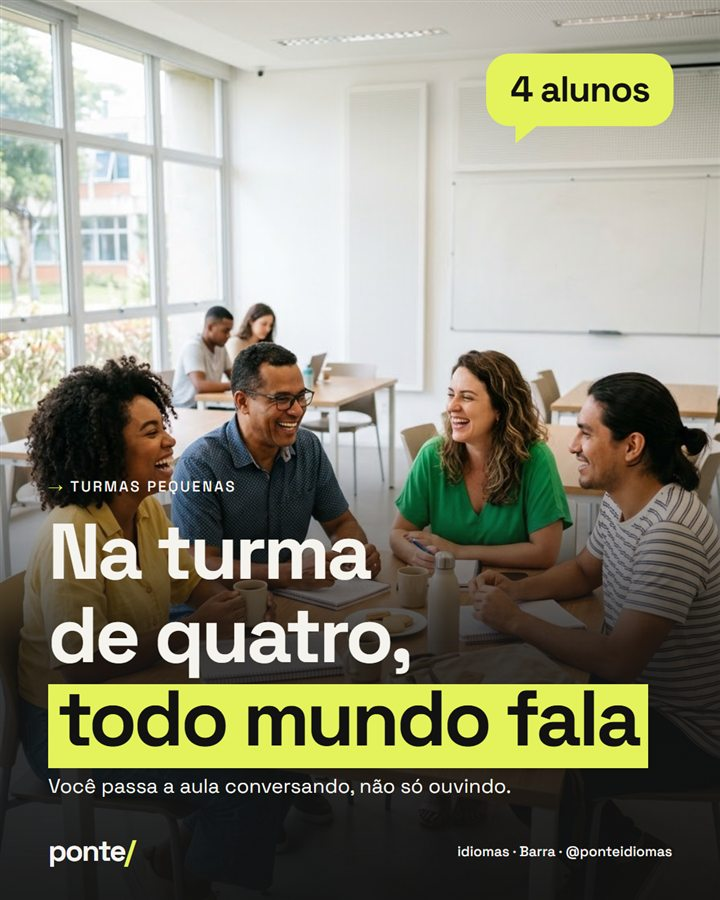
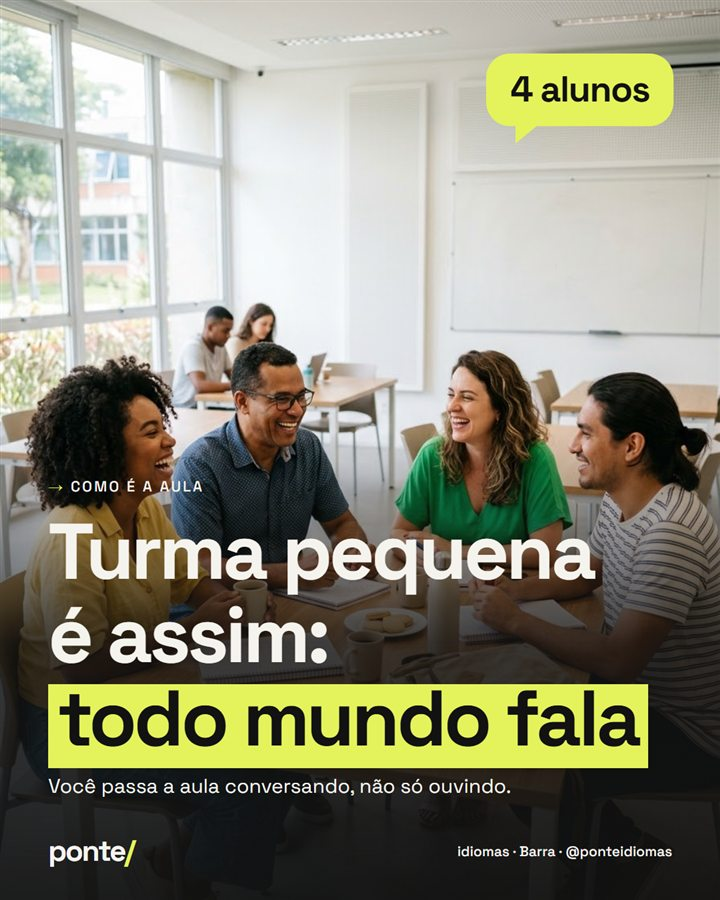
Ponte: troca título do post 01 para evitar duplo sentido

Changed region(s): [[0.0611, 0.5289, 0.825, 0.7778]]

diff --git a/index.html b/index.html
@@ -364,7 +364,7 @@ const PROJETOS = [
     conceito: 'Conversa é o produto: balões de fala e destaque em marca-texto limão sobre o azul. Posts alternam prova (turma pequena, professores) e conteúdo útil (erro comum, teste de nível).',
     entregas: '6 posts · 3:4 e 4:5 · fotos com IA · legendas', fontes: [['Títulos e texto', 'Space Grotesk']],
     cores: [['Azul', '#2F3BD9'], ['Limão', '#E4F25C'], ['Papel', '#F5F3EE'], ['Tinta', '#121212']],
-    posts: [['post-01-turma', 'Na turma de quatro, todo mundo fala.'], ['post-02-online', 'Ao vivo, no horário da sua rotina.'], ['post-03-professores', 'Quem ensina já morou lá fora.'],
+    posts: [['post-01-turma', 'Turma pequena é assim: todo mundo fala.'], ['post-02-online', 'Ao vivo, no horário da sua rotina.'], ['post-03-professores', 'Quem ensina já morou lá fora.'],
             ['post-04-erro-comum', 'Idade em inglês se diz com to be.'], ['post-05-viagem', 'Inglês para viagem em 8 semanas.'], ['post-06-teste', 'Descubra seu nível em 15 minutos.']] },
   { id: 'raso', nome: 'Raso', segmento: 'Protetor solar', cat: 'varejo', tipo: 'Marca fictícia',
     fundo: '#1FA3C4', txt: '#F2E3C6', arroba: '@rasosolar',
